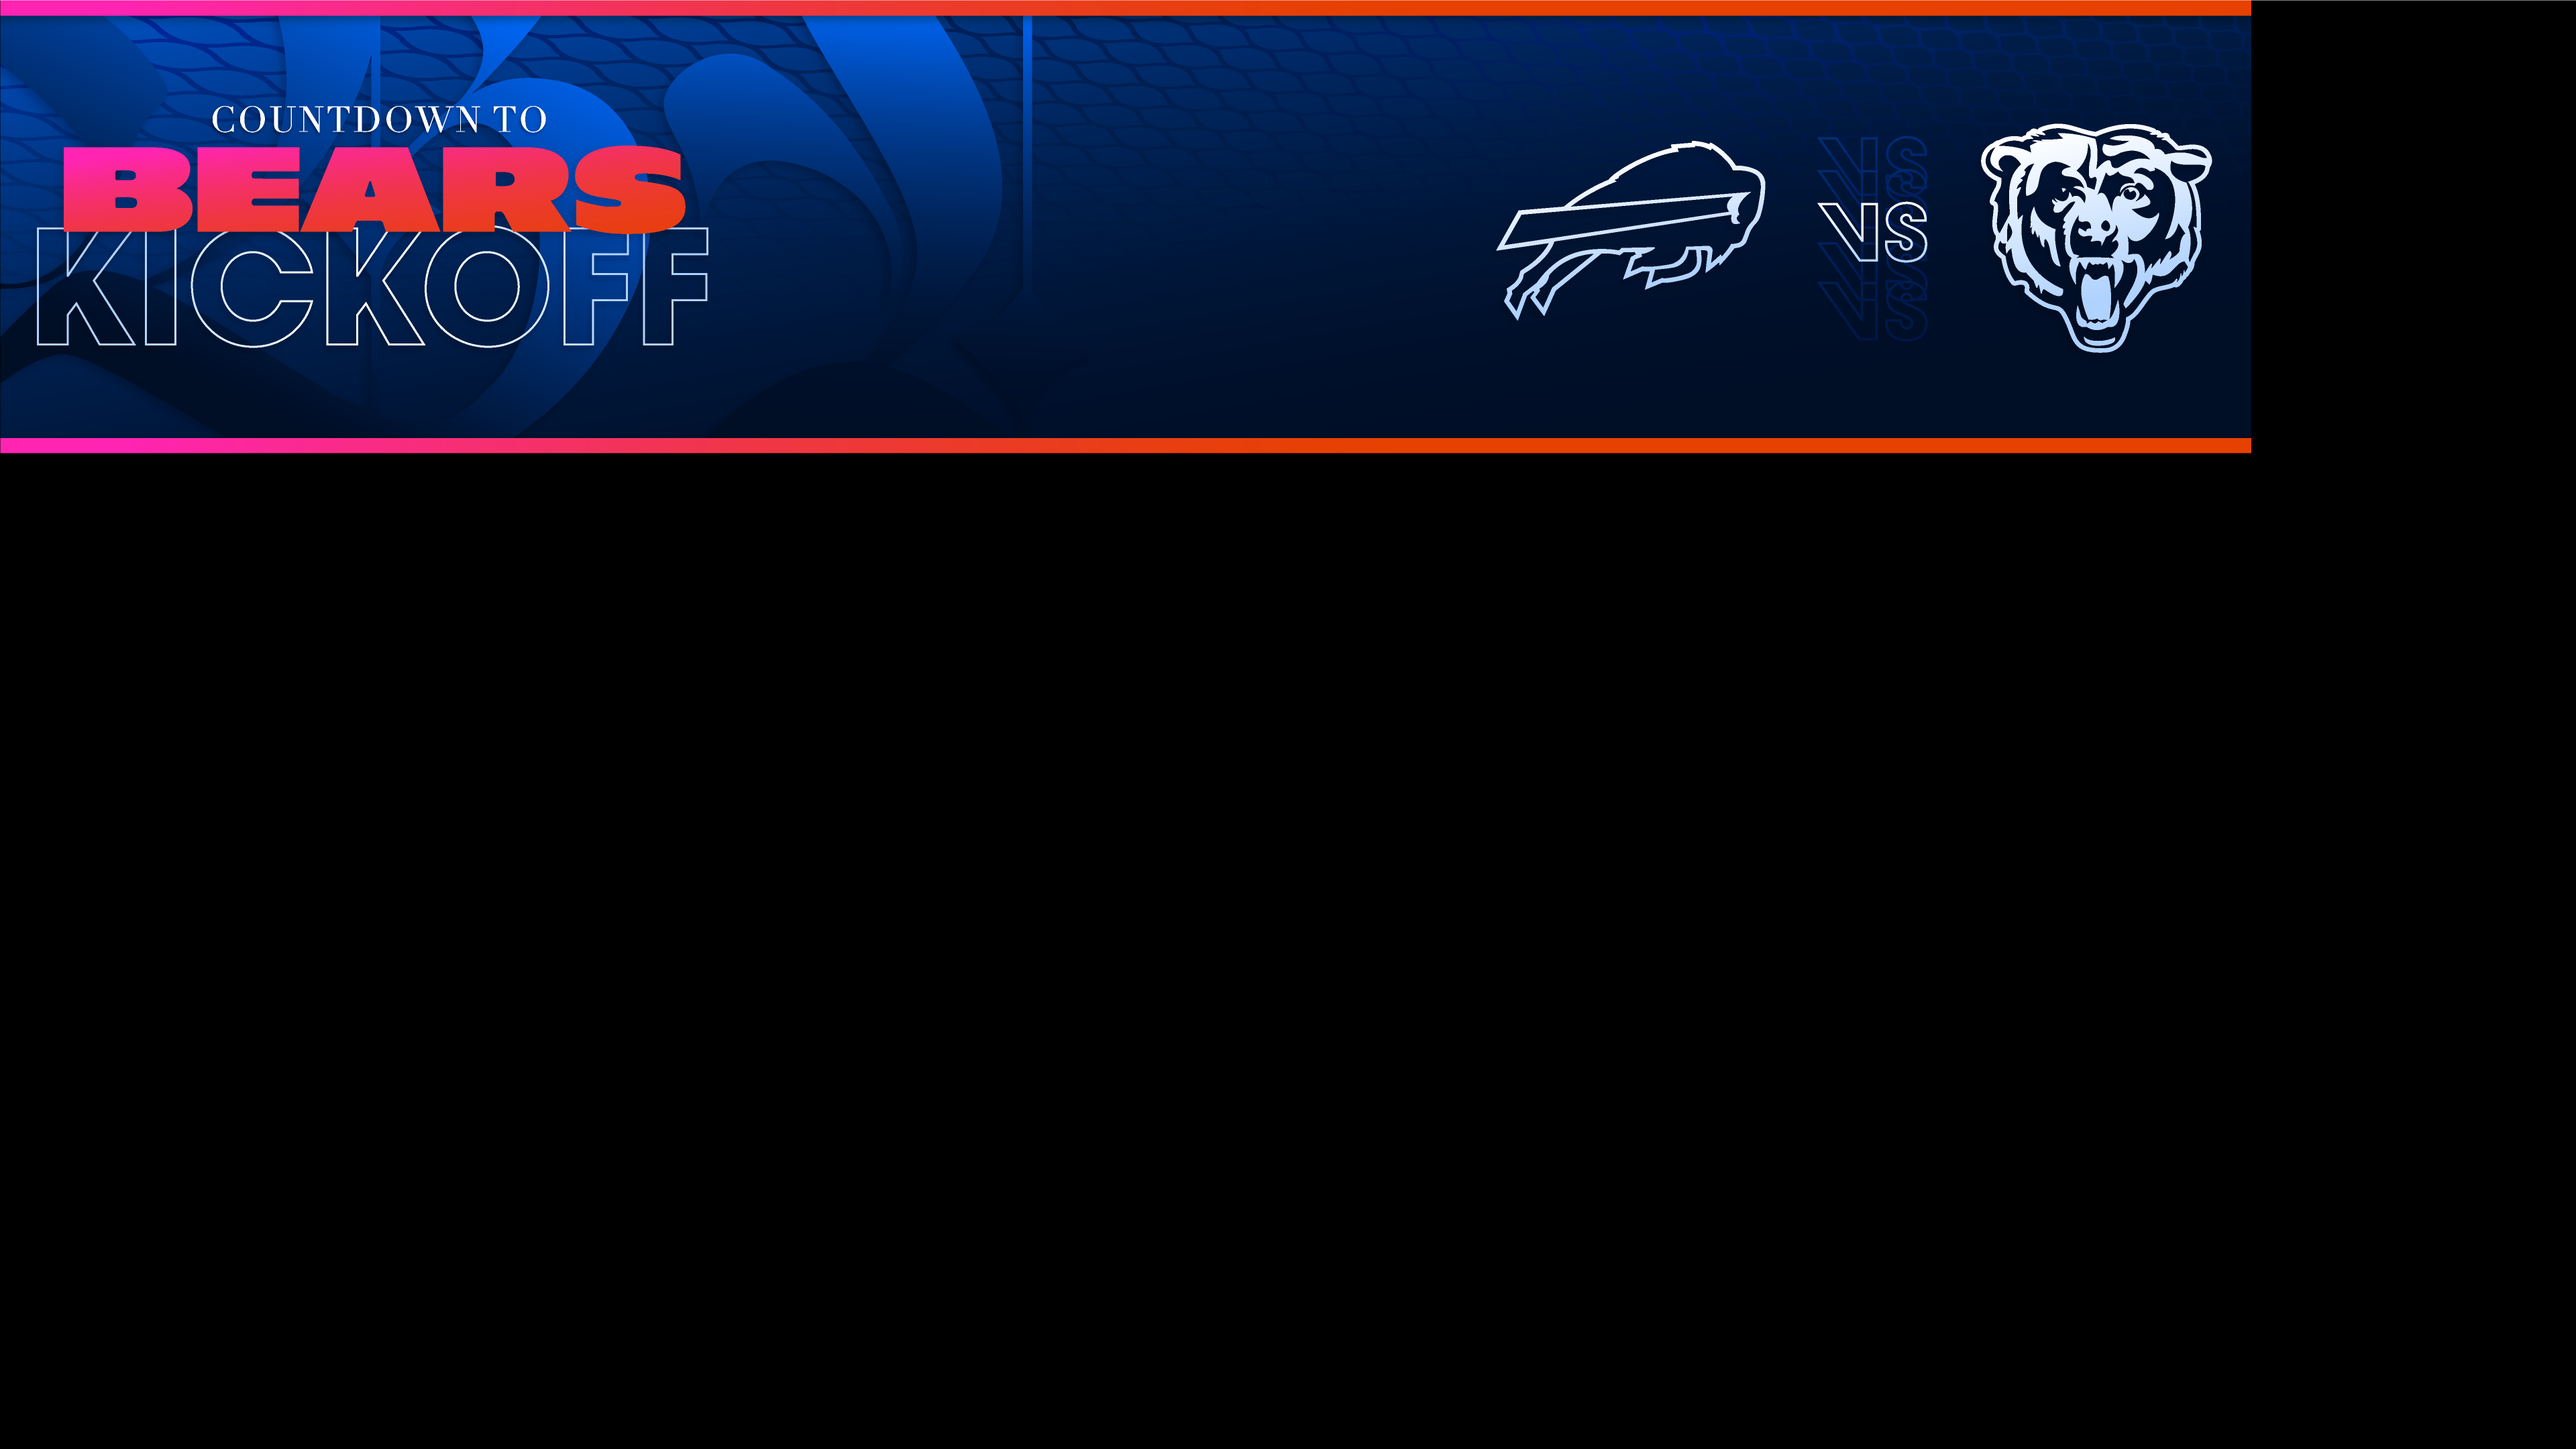
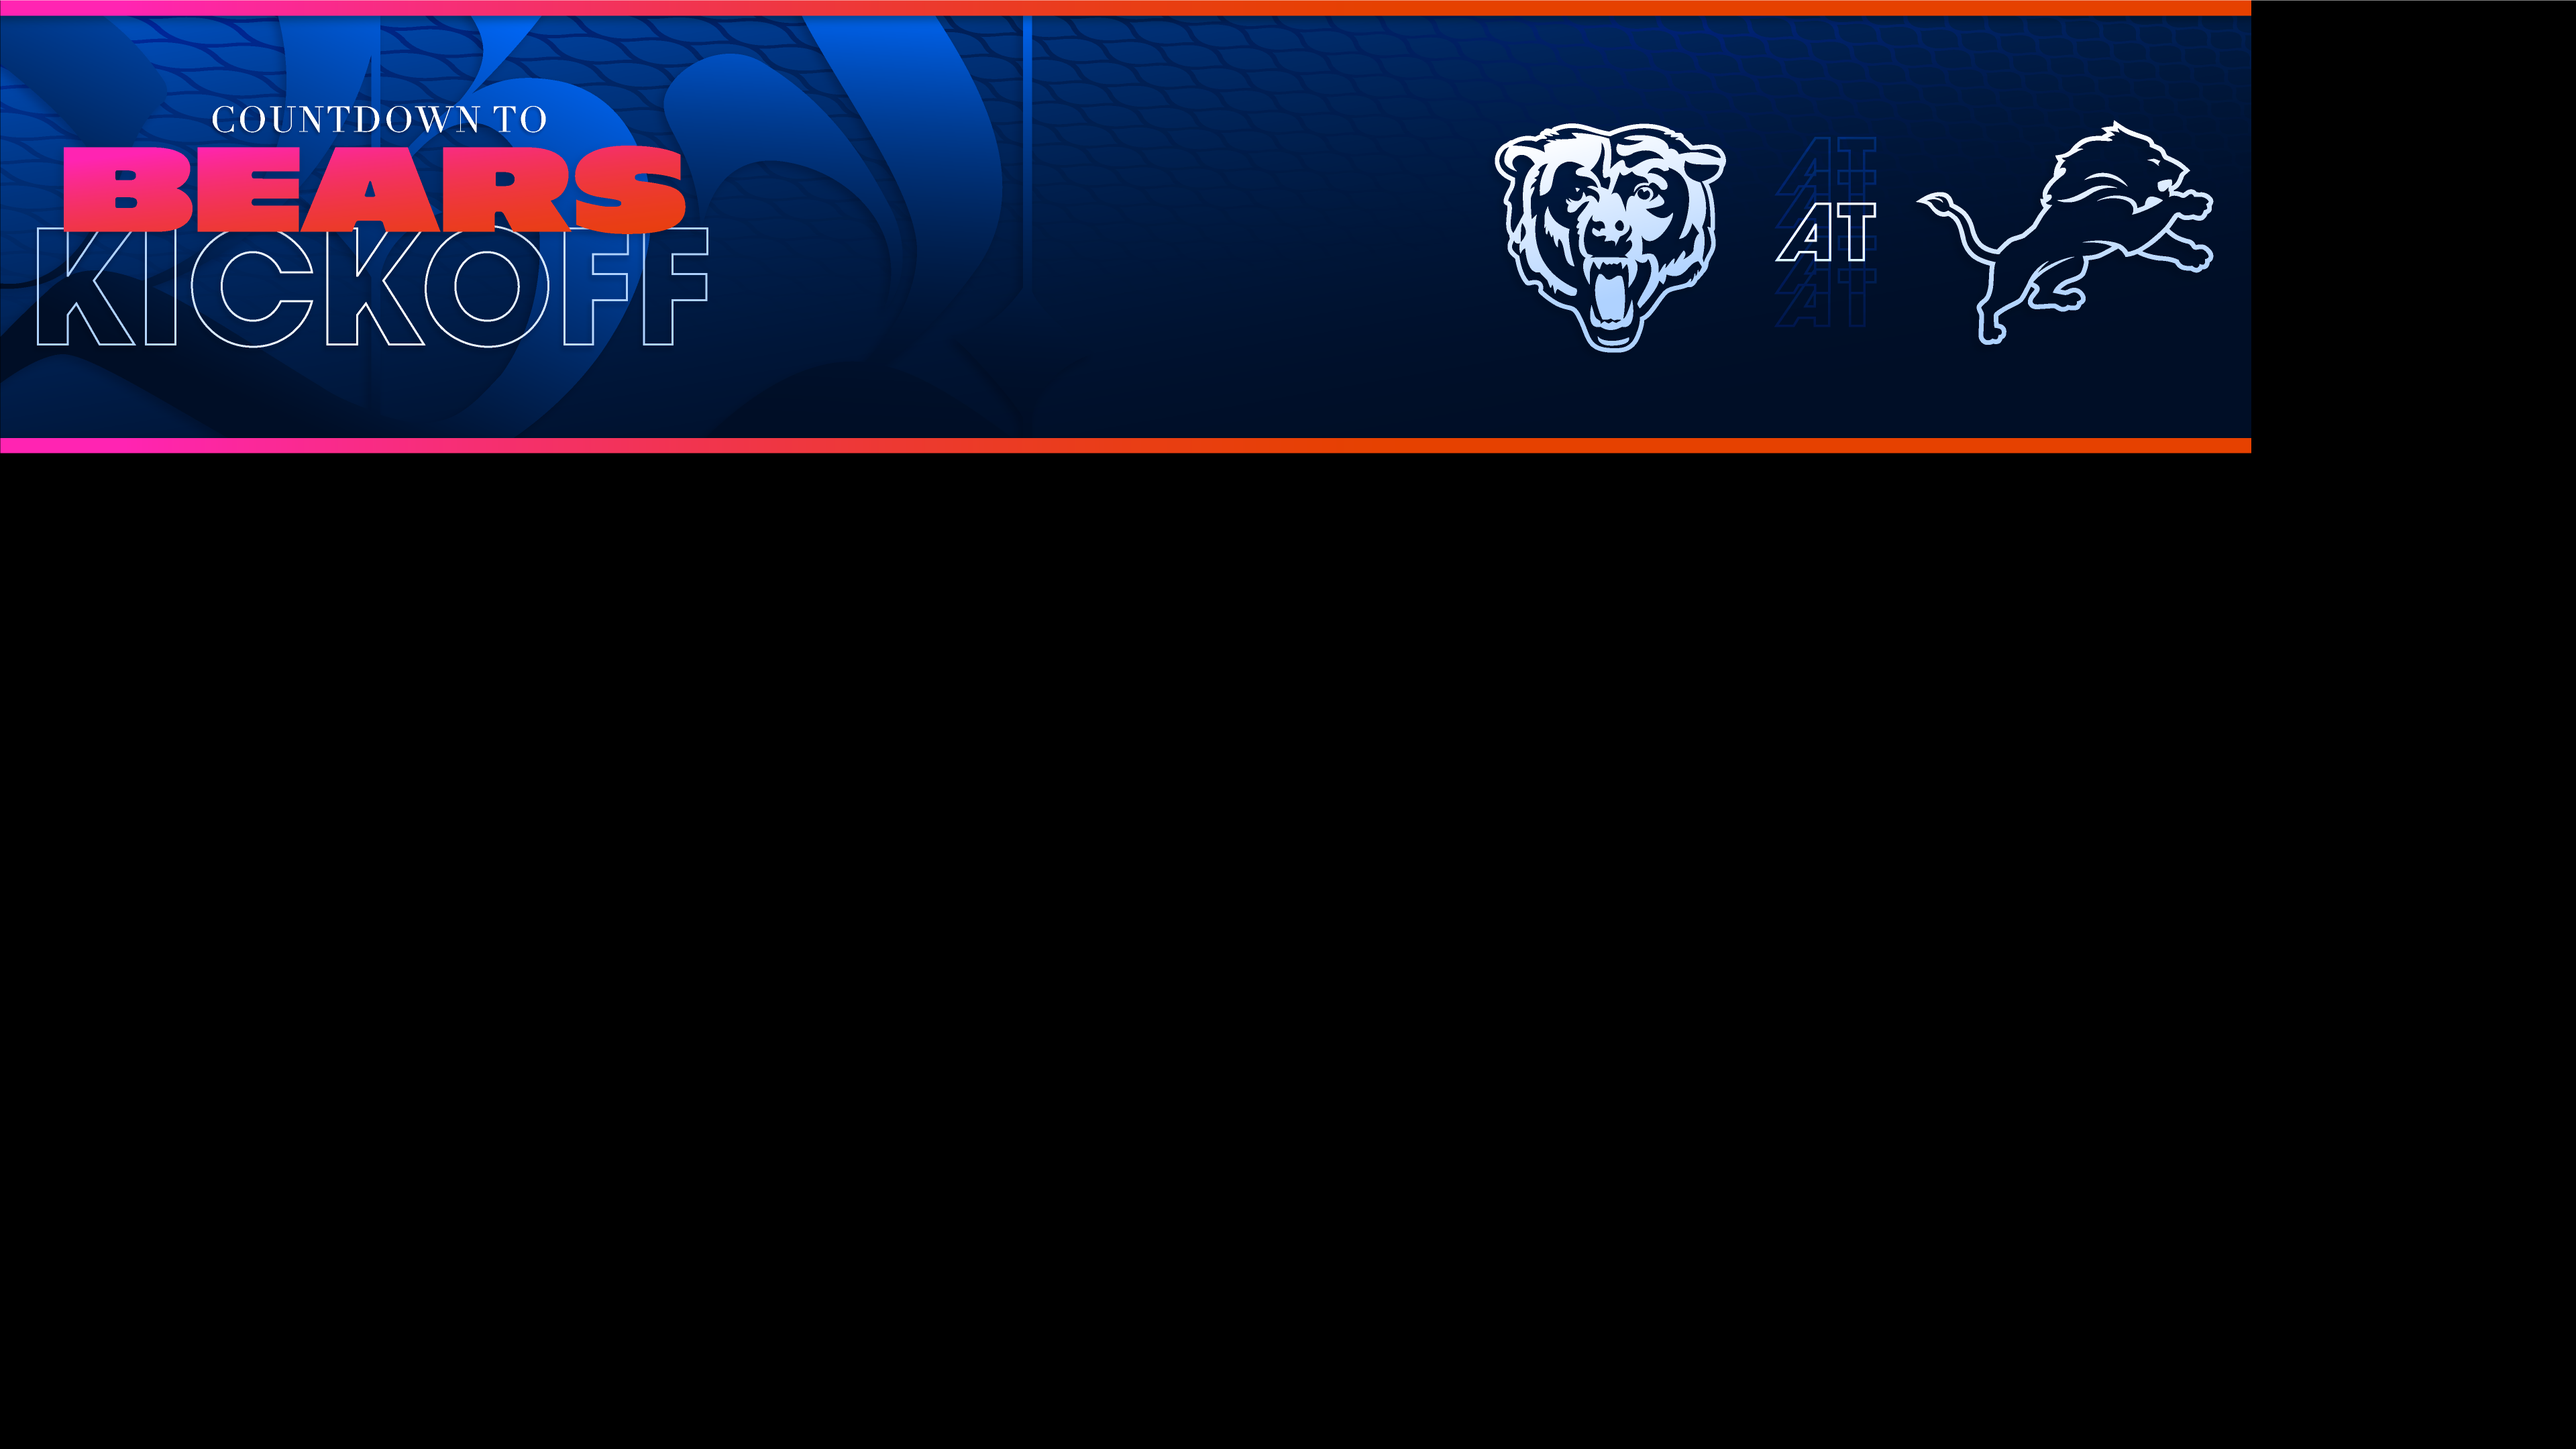
DET game

Changed region(s): [[0.5625, 0.062, 0.875, 0.2481]]

diff --git a/CurrentWeek/Horizontal/script/script.js b/CurrentWeek/Horizontal/script/script.js
@@ -68,9 +68,9 @@ $(document).ready(function(){
 			return futureFormattedDate
 		}
 		//USE 24HR MILITARY TIME
-		//BUF
+		//DET
 		$("#countdown").countdown({
-			date: "24 December 2022 12:00:00",
+			date: "1 January 2023 12:00:00",
 			format: "on"
 		});
 	});
